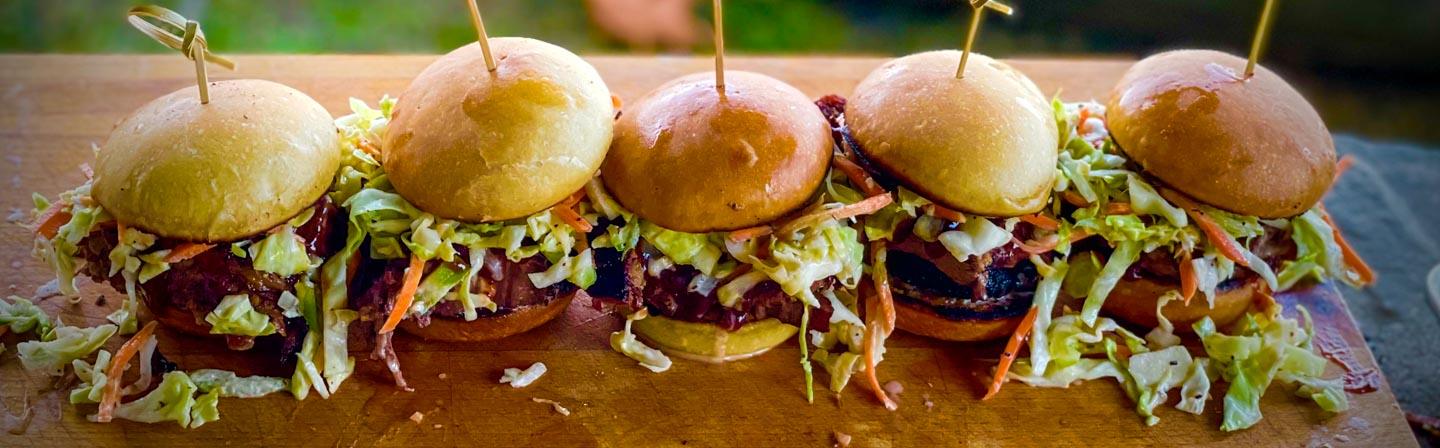
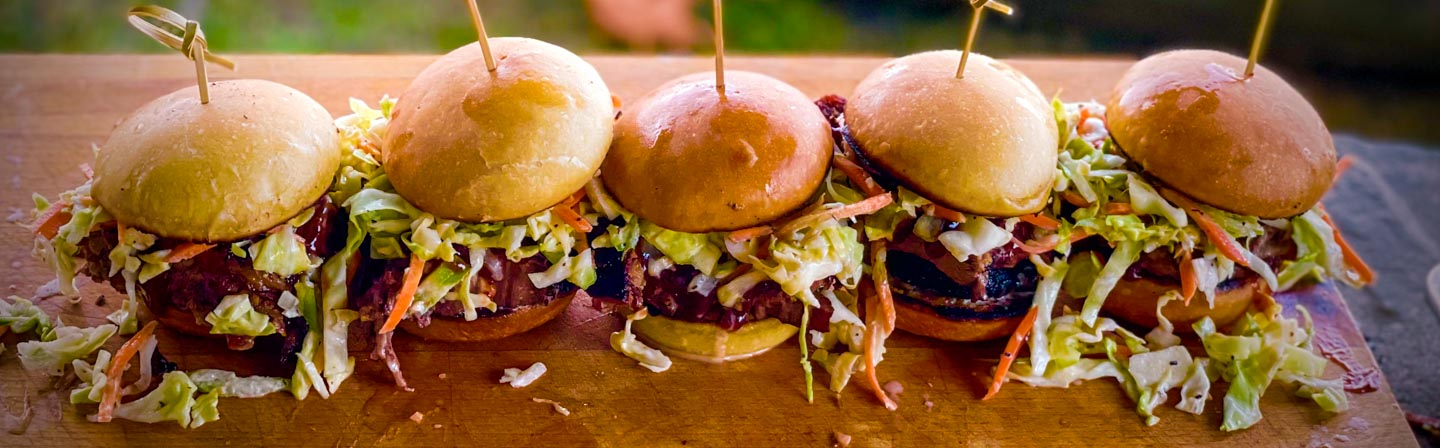
CSS adjustments, add images.

diff --git a/src/css/App.css b/src/css/App.css
@@ -20,6 +20,7 @@ div.Site {
   position: fixed;
   top: 0;
   z-index: 1030;
+  box-shadow:  0 1px 5px 0 rgb(20,36,53);
 }
 
 /* Navbar inner elements, allows for custom alignment/layout */
